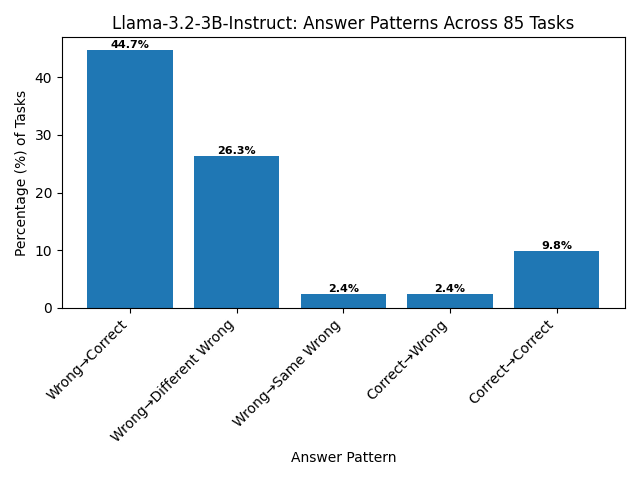
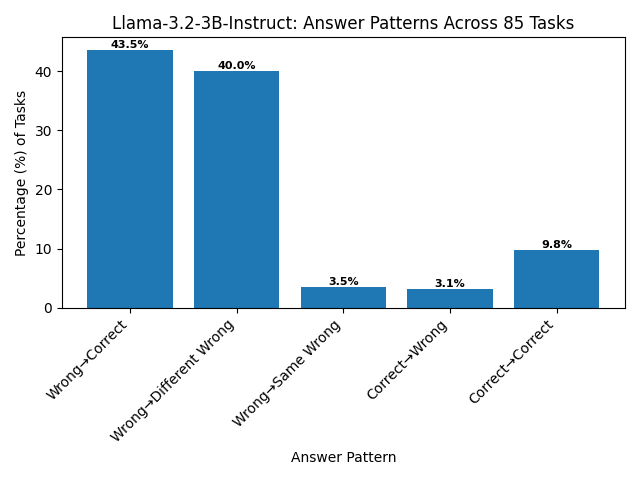
Update task_answer_statistics.py; Add statistic_images folder

diff --git a/task_answer_statistics.py b/task_answer_statistics.py
@@ -3,13 +3,13 @@ import matplotlib.pyplot as plt
 import os
 
 def extract_answers(file_path, num_agents):
-    answer_regex = r"(?<=answered: )(\w+)"
-    correct_answer_regex = r"(?<=Correct Answer: )(\w+)"
+    answer_regex = r"(?<=answered: )(.+)"
+    correct_answer_regex = r"(?<=Correct Answer: )(.+)"
 
     tasks = dict()
     task_files = [f for f in os.listdir(file_path) if "task" in f and f.endswith(".txt")]
 
-    for idx, filename in enumerate(sorted(task_files), 1):
+    for idx, filename in enumerate(sorted(task_files), 1): 
         # Read the entire file as a string
         with open(os.path.join(file_path, filename), 'r') as file:
             text = file.read()
@@ -72,6 +72,7 @@ def statistics(tasks_answers, model_name, num_agents=3):
                 missed_patterns_dict[task_num] = (init_answer, final_answer, correct_answer)
 
     print(missed_patterns, "tasks did not fit any of the defined patterns.")
+    print("Number of Tasks: ", num_tasks)
 
     # Create a bar chart
     categories = ['Wrong→Correct', 'Wrong→Different Wrong', 'Wrong→Same Wrong', 'Correct→Wrong', 'Correct→Correct',]
@@ -94,7 +95,11 @@ def statistics(tasks_answers, model_name, num_agents=3):
                 ha='center', va='bottom', fontsize=8, fontweight='bold')
         
     plt.tight_layout()  # Adjust spacing so labels don't get cut off
-    plt.savefig(model_name + '_statistics.png')
+
+    script_dir = os.path.dirname(os.path.abspath(__file__))
+    output_folder = os.path.join(script_dir, 'statistic_images')
+    filepath = os.path.join(output_folder, model_name + '_statistics.png')
+    plt.savefig(filepath)
     print("Plot saved as " + model_name + "_statistics.png")
     plt.clf()
 
